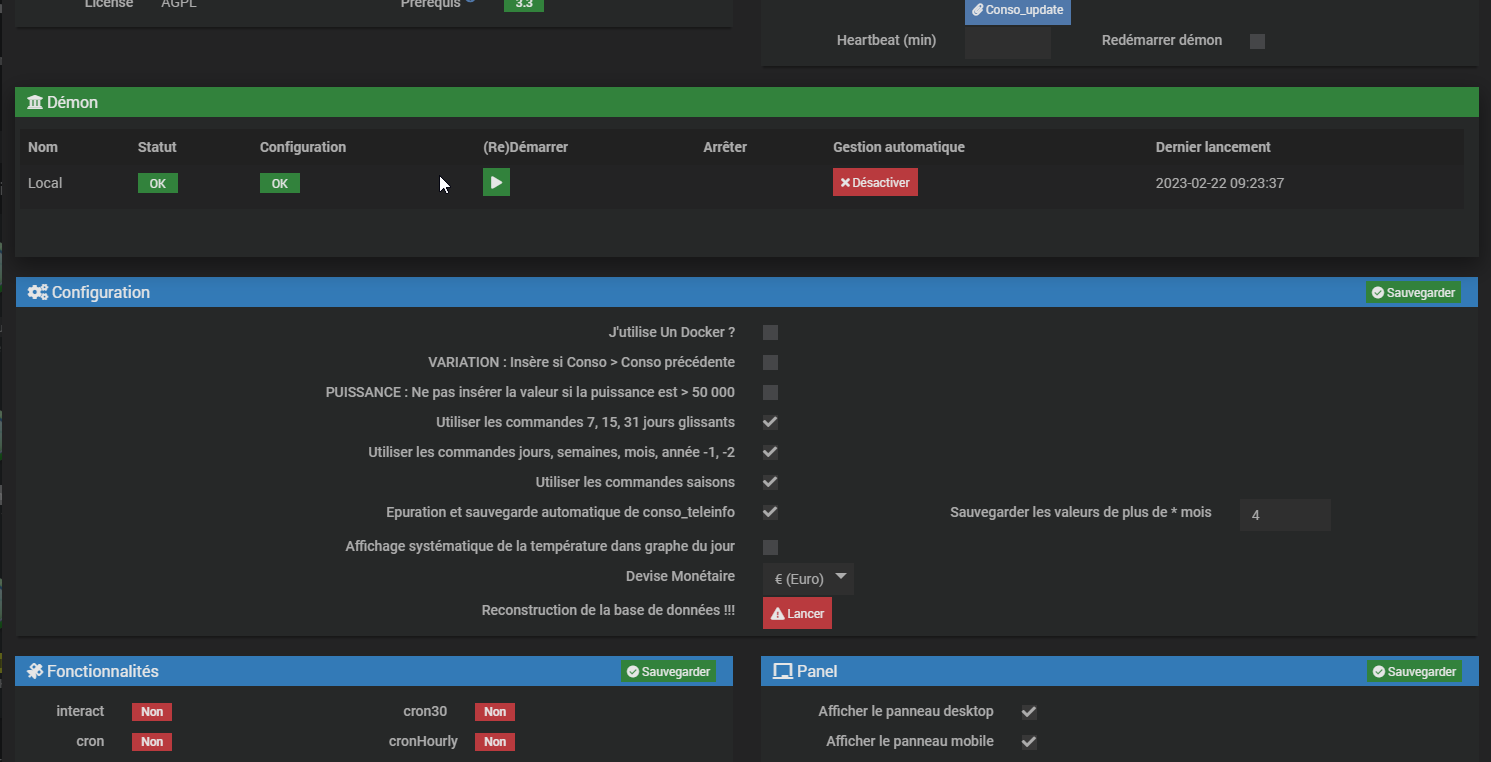
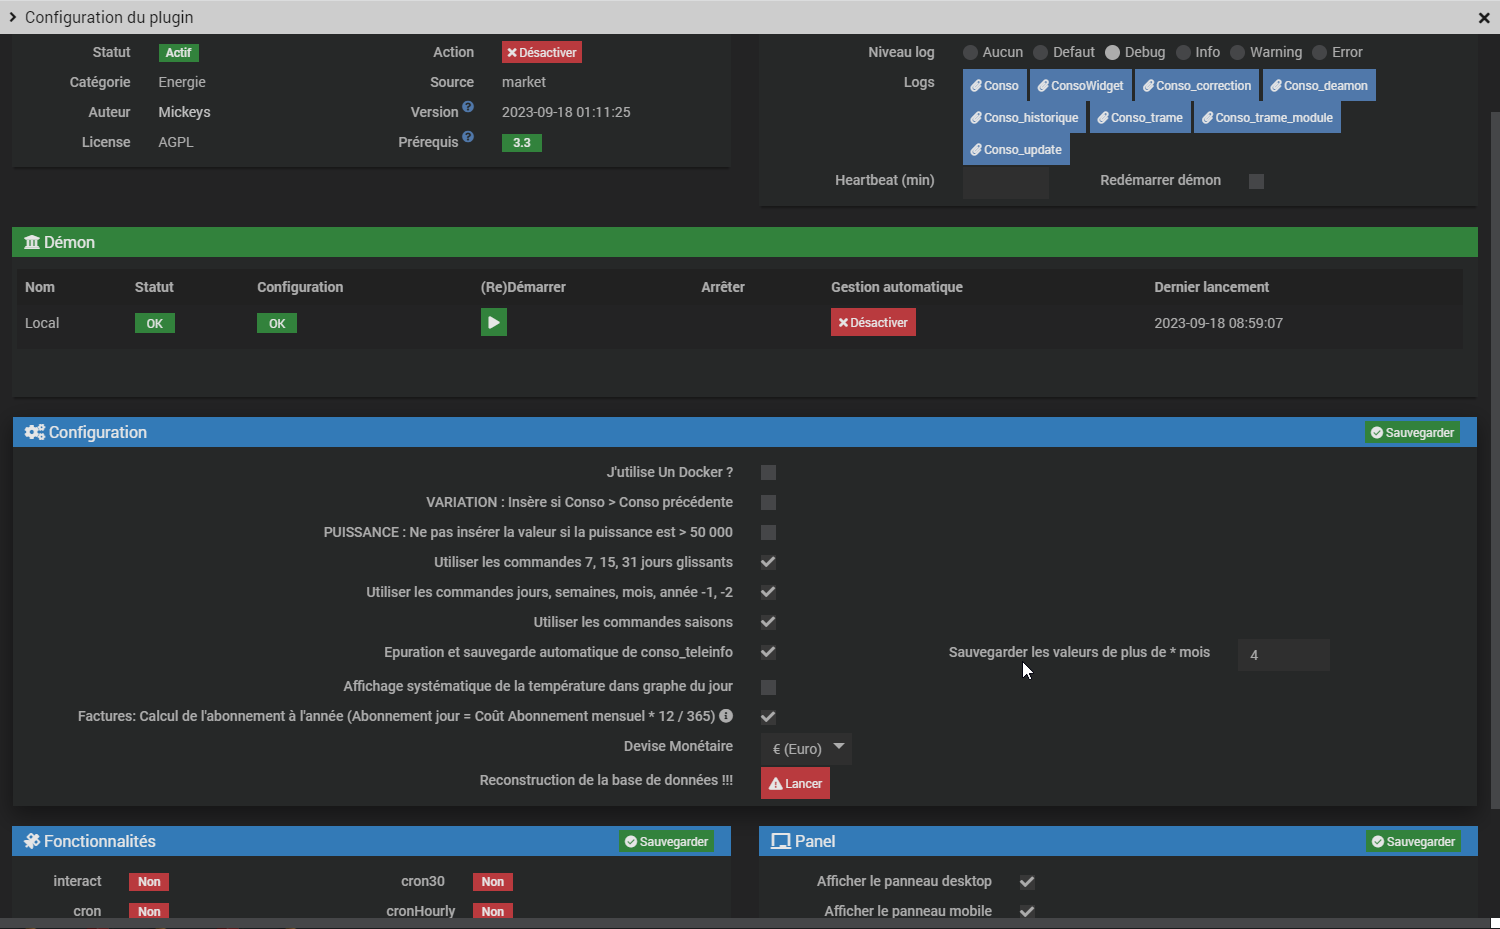
2023-10-03

diff --git a/conso/fr_FR/configuration.md b/conso/fr_FR/configuration.md
@@ -19,13 +19,20 @@ _**Plugins / Energie / Suivi Conso / configuration**_ <br>
 
 **Utiliser les commandes saisons** : Cocher cette case permet de créer pour chaque équipement les commandes de report de consommations et de coûts pour les 4 saisons passées (Printemps, Eté, Automne, Hivers). <br>
 
-**Affichage systématique de la température dans graphe du jour** : Cocher cette case permet d'avoir systématiquement le graphique de la température dnas le tableau "Consommation du jour" <br>
-
 **Epuration et sauvegarde automatique de conso_teleinfo** : Permet d'épurer la table conso_teleinfo (relevé détaillé des infos sur la journée) en fonction d'un délai en mois renseigné dans le champs: 'Sauvegarder les valeurs de plus de * mois'. Les informations épurées seront stockées dans un fichier zip se trouvant dans le répertoire backup.
 ![emplacement_sauv](../images/emplacement_sauv.png)
+
+**Affichage systématique de la température dans graphe du jour** : Cocher cette case permet d'avoir systématiquement le graphique de la température dnas le tableau "Consommation du jour" <br
+
+**Factures: Calcul de l'abonnement à l'année (Abonnement jour = Coût Abonnement mensuel * 12 / 365)** : Paramétrage de la manière dont on calcul l'abonnement au jour. Soit lissé sur l'année, soit au prorata du mois concerné. Par défaut l'abonnement jour est calculé comme ceci: Coût abonnement mensuel <> / nombre de jours dans le mois<br>
 
 **Devise Monétaire** : Choix de la devise monétaire apparaissant dans le dashboard et les factures<br>
 
 **Reconstruction de la base de données !!!** : Permet de réparer la base de données du plugin en cas de problème. _**Cet outil est à utiliser avec précaution et en ayant fait une sauvegarde préalable**_ <br>
 
 ![reconstructionbase](../images/reconstructionbase.png)
+
+# Important :
+Pour visualiser l'écran principal du plugin (Panel) il faut cocher "Afficher le panneau desktop"
+
+![conso_screenshot2](../images/conso_screenshot2.png)

diff --git a/conso/fr_FR/partie_1.md b/conso/fr_FR/partie_1.md
@@ -39,10 +39,13 @@ Commande disponible : <br>
  - Etat : Votre équipement est allumé ou éteint (Type : numerique 0 ou 1 ) <br>
  - Consommation électrique déclarée  (Wh) La consommation de vos ampoules ou équipements une fois mesurée
 
- ## Si un parent a été attribué :
+ **Enregistrement de la consommation à J-1 :** <br>
+ Ce paramétrage est dédié à l'utilisation des plugin type Enedis ou Gaspar qui remontent le jour J l'information de consommation de la veille. Cela permet d'enregistrer la consommation sur la date de la veille. En cas d'utilisation il n'y aura donc aucunes informations sur le jour en cours dans les graphiques et dans les tableaux de consommation/prix.
+
+## Si un parent a été attribué :
 
  **Application Abonnement :**<br>
- Permet d'applliquer l'abonnement sur l'équipement enfant.<br>
+ Permet d'appliquer l'abonnement sur l'équipement enfant.<br>
 
  **Puissance personnalisée :**
  Si coché remplace le champ _**Compteur**_ par le champ _**Puissance**_ :
